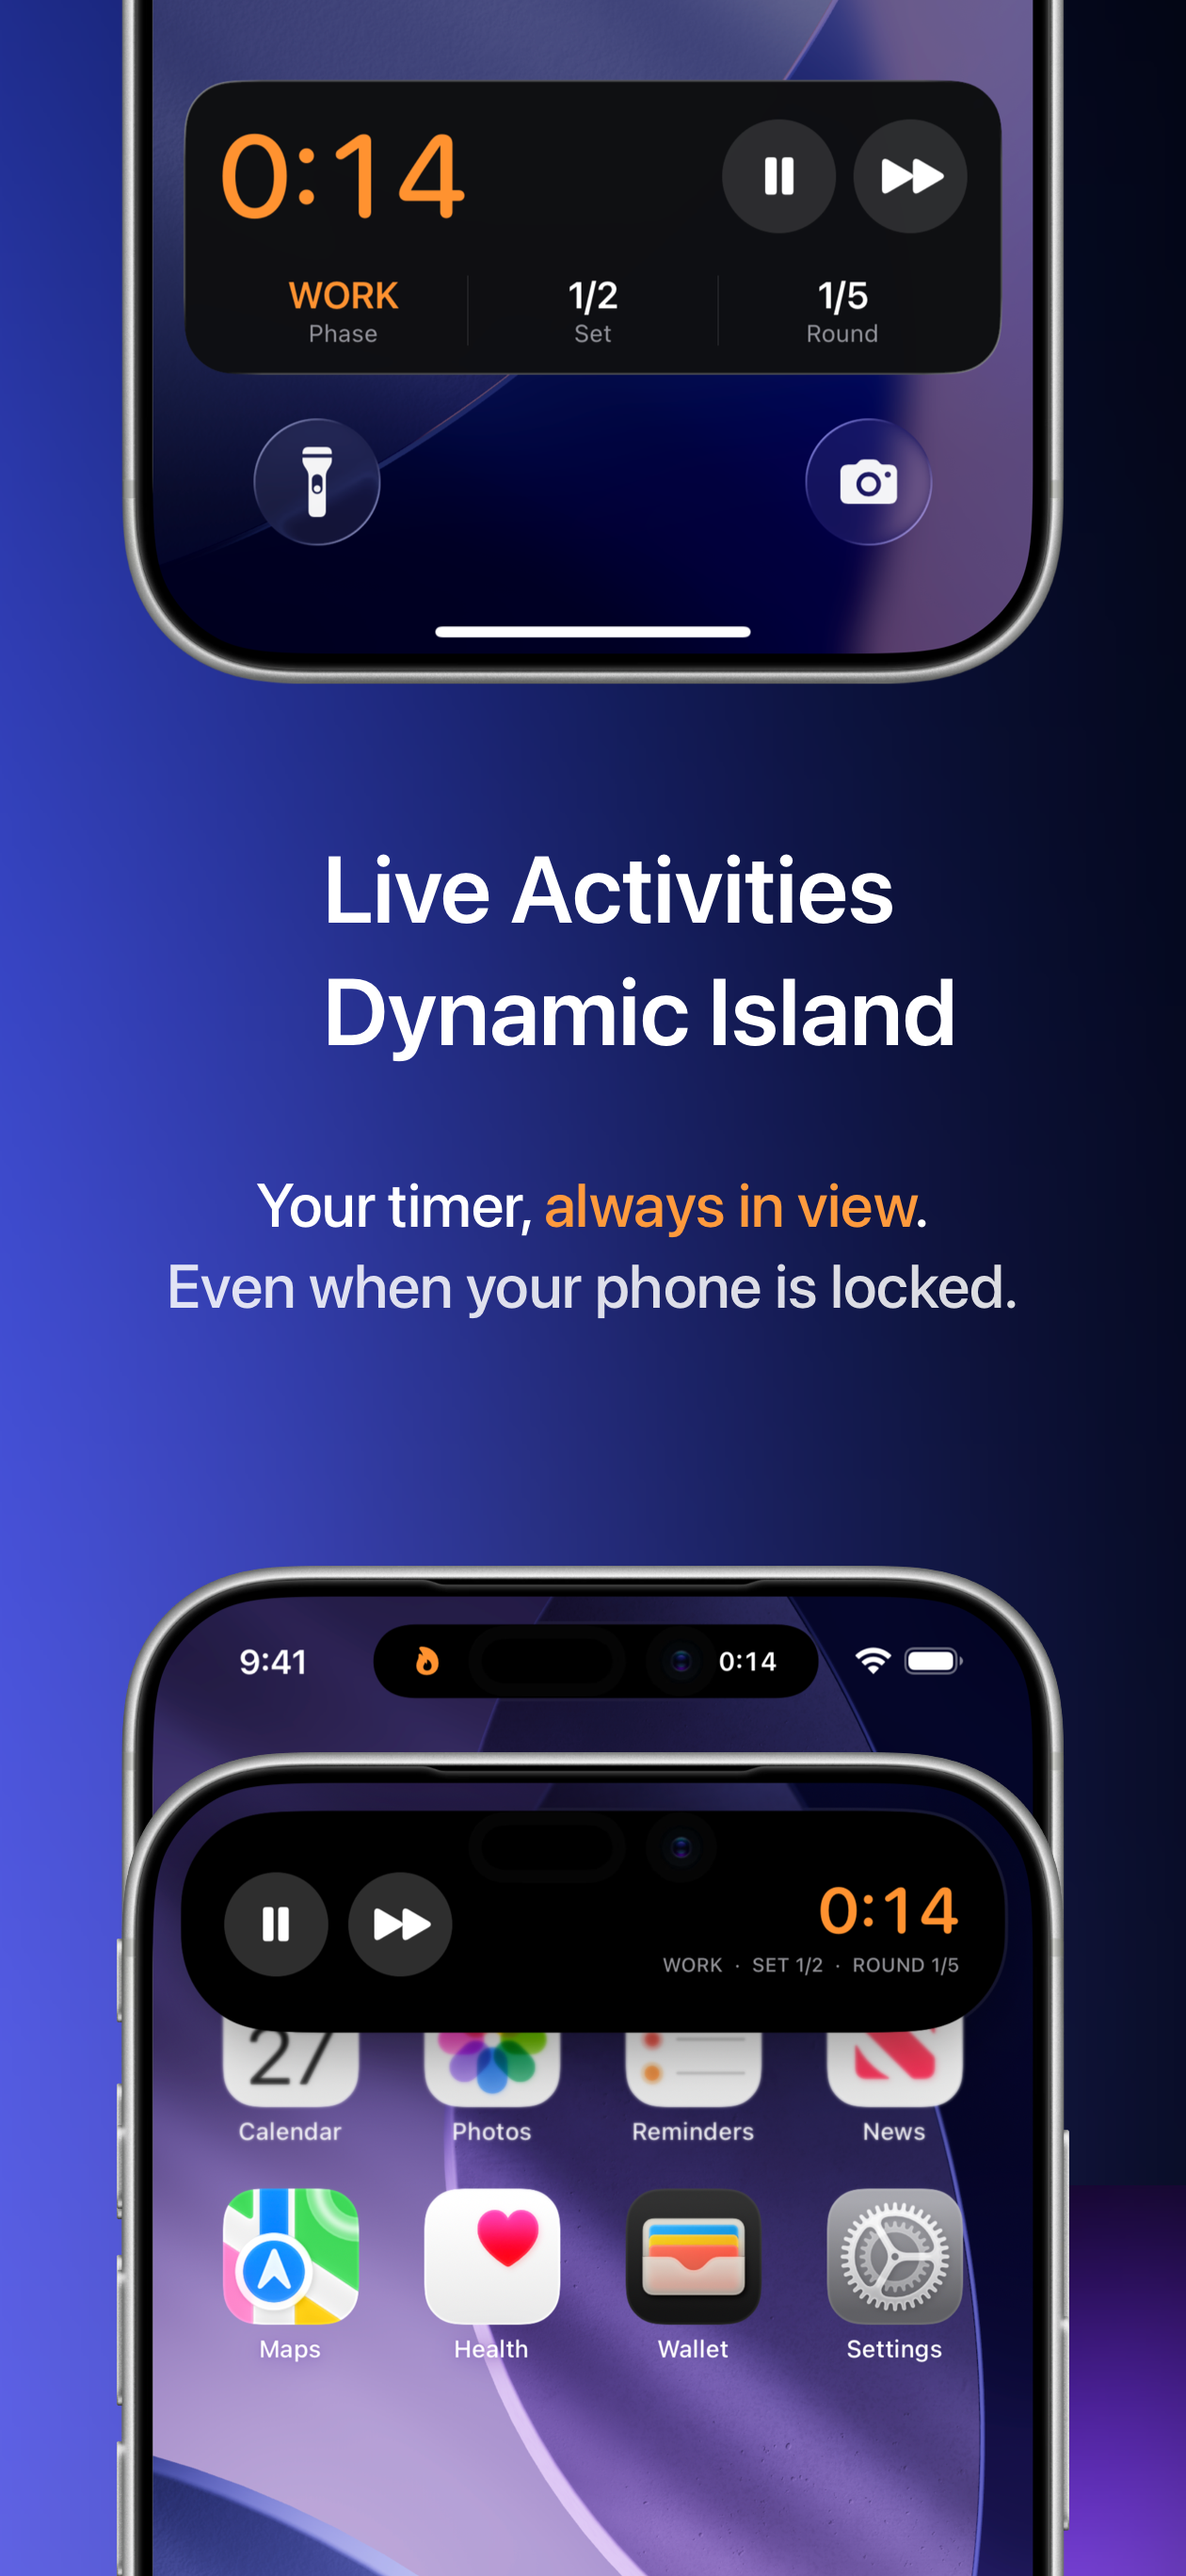
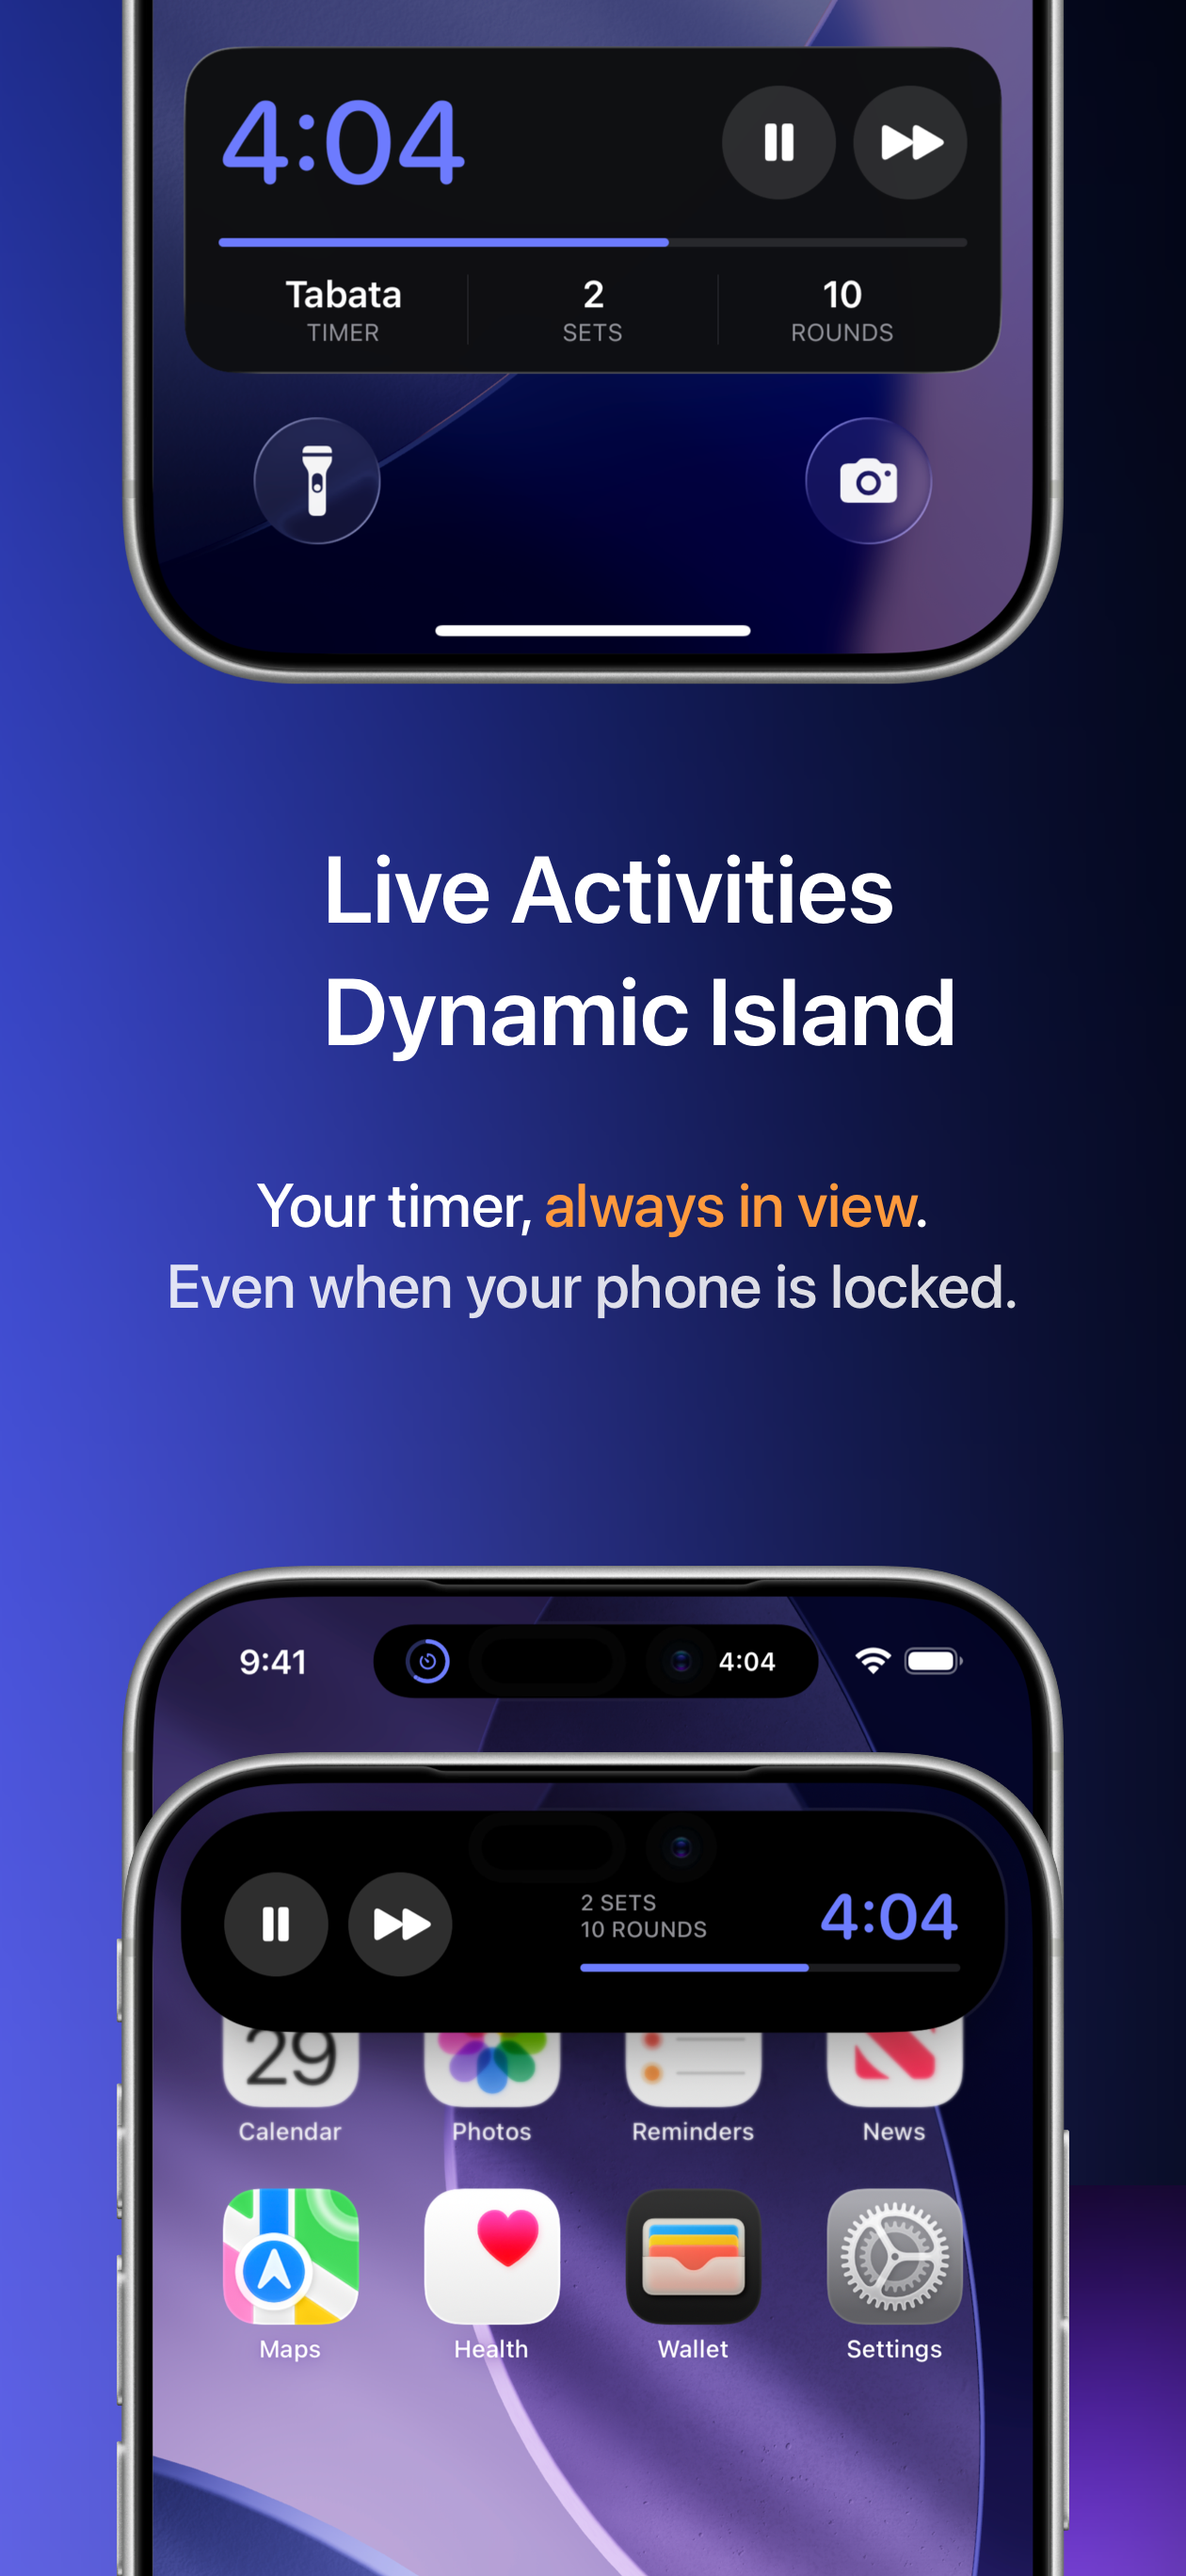
Update Live Activity copy and screenshots

diff --git a/marketing/index.html b/marketing/index.html
@@ -44,7 +44,7 @@
       </div>
       <div class="hero-visual">
         <img src="../assets/screenshots/screenshot_2.png" alt="FourEver running a work interval on iPhone" width="1260" height="2736">
-        <span class="floating-note">Built for athletes</span>
+        <span class="floating-note">Built by an athlete</span>
       </div>
     </section>
 
@@ -68,7 +68,7 @@
         <article class="feature-card">
           <span class="feature-number">03</span>
           <h3>Always in view</h3>
-          <p>Live Activities bring the current phase and remaining time to the Lock Screen and Dynamic Island.</p>
+          <p>Live Activities keep total workout time and overall progress visible on the Lock Screen and Dynamic Island, with expanded controls when you need them.</p>
         </article>
         <article class="feature-card">
           <span class="feature-number">04</span>
@@ -101,8 +101,8 @@
             <figcaption>Every interval, covered.</figcaption>
           </figure>
           <figure class="screenshot-card">
-            <img src="../assets/screenshots/screenshot_5.png" alt="FourEver Live Activity on the Lock Screen and Dynamic Island" loading="lazy" width="1260" height="2736">
-            <figcaption>Your timer stays in view.</figcaption>
+            <img src="../assets/screenshots/screenshot_5.png" alt="FourEver Live Activity showing total workout time and progress on the Lock Screen and Dynamic Island" loading="lazy" width="1260" height="2736">
+            <figcaption>Your workout stays in view.</figcaption>
           </figure>
           <figure class="screenshot-card">
             <img src="../assets/screenshots/screenshot_6.png" alt="FourEver workout history with monthly chart, statistics, and streak" loading="lazy" width="1260" height="2736">
@@ -112,7 +112,7 @@
         <div class="gallery-strip">
           <figure>
             <img src="../assets/screenshots/screenshot_1.png" alt="FourEver No distractions, Just intervals artwork" loading="lazy" width="1260" height="2736">
-            <figcaption>Built for athletes</figcaption>
+            <figcaption>Built by an athlete, for athletes</figcaption>
           </figure>
           <figure>
             <img src="../assets/screenshots/screenshot_2.png" alt="FourEver focused workout timer" loading="lazy" width="1260" height="2736">

diff --git a/ios/index.html b/ios/index.html
@@ -190,7 +190,7 @@
     <header>
       <span class="badge">iOS Privacy Policy</span>
       <h1>FourEver</h1>
-      <p class="effective-date">Effective date: 26 July 2026</p>
+      <p class="effective-date">Effective date: 29 July 2026</p>
     </header>
 
     <div class="summary-card">
@@ -232,7 +232,7 @@
 
     <div class="card">
       <h2>Live Activities &amp; Dynamic Island</h2>
-      <p>While a workout is running, FourEver can show the current interval on your Lock Screen and in the Dynamic Island. This is drawn locally on your device from data already on your device using zero remote push services.</p>
+      <p>While a workout is running, FourEver can show the session’s total remaining time and overall progress on your Lock Screen and in the Dynamic Island. The full Lock Screen view also shows the timer name, total sets, and total rounds; the expanded Dynamic Island shows total sets and rounds. Both full views provide controls to pause or resume the timer and skip to the next interval. The Live Activity is rendered locally from on-device data and uses no remote push service.</p>
     </div>
 
     <div class="card">

diff --git a/support/index.html b/support/index.html
@@ -58,7 +58,7 @@
       <div class="faq-list">
         <details>
           <summary>Will the timer continue when my iPhone is locked?</summary>
-          <p>Yes. FourEver is designed to keep the workout running and play interval cues with the screen locked. A Live Activity can keep the current interval visible on your Lock Screen.</p>
+          <p>Yes. FourEver is designed to keep the workout running and play interval cues with the screen locked. A Live Activity can keep total workout time and overall progress visible on your Lock Screen and Dynamic Island; its full views also offer controls to pause, resume, or skip.</p>
         </details>
         <details>
           <summary>Where are my timers and workout history stored?</summary>

diff --git a/app-store-metadata.md b/app-store-metadata.md
@@ -2,63 +2,75 @@
 
 ## Description
 
-FourEver is an interval timer for athletes who would rather train than manage a clock.
-
 NO DISTRACTIONS. JUST INTERVALS.
 
-Build a workout around the way you actually train. Set warm-up, work, rest, rest between sets, cool-down, rounds, and sets. Or start fast with templates for Tabata, HIIT, EMOM, boxing, and sprints.
+FourEver is a native interval timer engineered for pure flow state - built by an athlete for anyone who would rather grind than fight a messy clock. Zero ads, zero tracking, zero subscriptions, and zero fluff.
+
+Whether you’re hitting heavy bag rounds, Tabata sprints, EMOM sets, or custom calisthenics circuits, FourEver keeps your workout moving without getting in your way.
 
 BUILD IT ONCE. START IN SECONDS.
 
-• Save custom timers to your library.
-• Preview the complete sequence before you begin.
-• Jump to any interval when the plan changes.
+• Custom Phase Control: Set Warm-Up, Work, Rest, Rest Between Sets, and Cool-Down durations down to the second.
+• Built-In Templates: Tap and go with pre-configured Tabata, HIIT, EMOM, Sprints, and Boxing setups.
+• Live Adaptability: Jump to any interval or skip phases on the fly when your training demands a change.
 
 WHEN THE TIMER STARTS, THE WORK STARTS.
 
-Choose clear sounds or spoken phase cues. Hear a final 3-2-1 countdown before every transition. Keep your music playing, put your iPhone down, and let FourEver carry the rhythm of the session.
+Put your iPhone across the room or slip it into your pocket. FourEver carries the rhythm of your session with crisp audio cues that seamlessly duck over your music without stopping the vibe.
 
-• Continue training with your iPhone locked.
-• Use haptics for extra feedback.
-• Pause, resume, skip, mute cues, or end the workout.
-• Lock the controls to prevent accidental taps.
-• Use the wide landscape timer when your iPhone is across the room.
+• Background Audio Cues: Hear spoken phase names and a 3-2-1 countdown while your workout playlist keeps playing.
+• Wide Landscape Display: Massive, high-contrast digits readable from across the gym or studio floor.
+• Control Lock: Freeze the UI during workouts to prevent accidental taps mid-set.
+• Haptic Cues: Feel the transitions even in noisy training environments.
 
-KNOW WHAT’S NOW. KNOW WHAT’S NEXT.
+STAY LOCKED IN - WITHOUT UNLOCKING YOUR PHONE.
 
-Follow the current phase, remaining time, round, and next interval at a glance. Open the full sequence and move to another interval whenever training does not go exactly to plan.
+Live Activities keep your total workout time remaining and overall progress visible on the Lock Screen and Dynamic Island. Full views add total sets and rounds, with controls to pause, skip, or resume.
 
-STAY LOCKED IN—EVEN WHEN YOUR SCREEN IS LOCKED.
+PROOF OF THE GRIND. NEVER BREAK THE CHAIN.
 
-Live Activities keep the current phase and remaining time visible on the Lock Screen and Dynamic Island, with pause and skip controls close at hand.
+Consistency is quantified. Look back on completed sessions, total rounds, and training time across days, weeks, and months.
+
+• Keep your workout streak alive and watch your effort compound.
+• Review session details and history whenever you need proof of the work put in.
 
 LIGHT MODE. DARK MODE. ALWAYS BEAST MODE.
 
-Choose the appearance that fits your setup and keep the timer readable throughout the workout.
+Designed specifically for iOS with deep OLED dark mode for late-night sessions and clean light mode for outdoor training. Fast, responsive, and easy on your battery.
 
-KEEP THE CHAIN MOVING.
+100% PRIVATE & OFFLINE BY DESIGN.
 
-Review completed and partial sessions by day, week, or month. Track training time, rounds, sessions, and streaks—because one workout is a start, but consistency is what builds momentum.
+• Zero Ads.
+• Zero User Accounts.
+• Zero Analytics or Third-Party Tracking.
+• 100% On-Device Data Storage.
+• Works Completely Offline - In the Gym, Park, or Ring.
 
-PRIVATE BY DESIGN.
+From four-minute finishers to custom multi-round circuits, FourEver keeps every interval clear and every workout moving.
 
-• No account.
-• No ads.
-• No analytics or tracking.
-• Your timers and history stay on your iPhone.
-• No internet connection required.
+Build it. Start it. Never break the chain.
 
-From four-minute Tabata to custom circuits, boxing rounds, sprint work, and recovery sessions, FourEver keeps every interval clear and every workout moving.
+---
 
-Build it. Start it. Finish strong.
+A NOTE FROM THE DEVELOPER
 
-Support: https://sigolord.github.io/fourever-privacy/support/
+As a karate athlete, I built FourEver because I needed a clean, native tool that stays out of the way and lets me focus entirely on my training. I originally created it for my own workouts, and I hope it helps take yours to the next level.
+
+- Alex, Developer & Athlete
+
+---
 
 Privacy Policy: https://sigolord.github.io/fourever-privacy/ios/
 
+QUESTIONS OR FEEDBACK?
+
+FourEver is built by an independent developer, and your feedback matters. If you have any questions, suggestions, or ideas, feel free to get in touch:
+https://sigolord.github.io/fourever-privacy/support/
+fourever.support@proton.me
+
 ## Promotional Text
 
-No distractions. Just intervals. Build your workout once, follow clear audio cues, and keep moving with Live Activities—even when your iPhone is locked.
+Put the phone down. FourEver keeps the count—spoken cues over your music, Live Activities on your Lock Screen, and not one ad, account, or subscription.
 
 ## App Store Connect URLs
 
